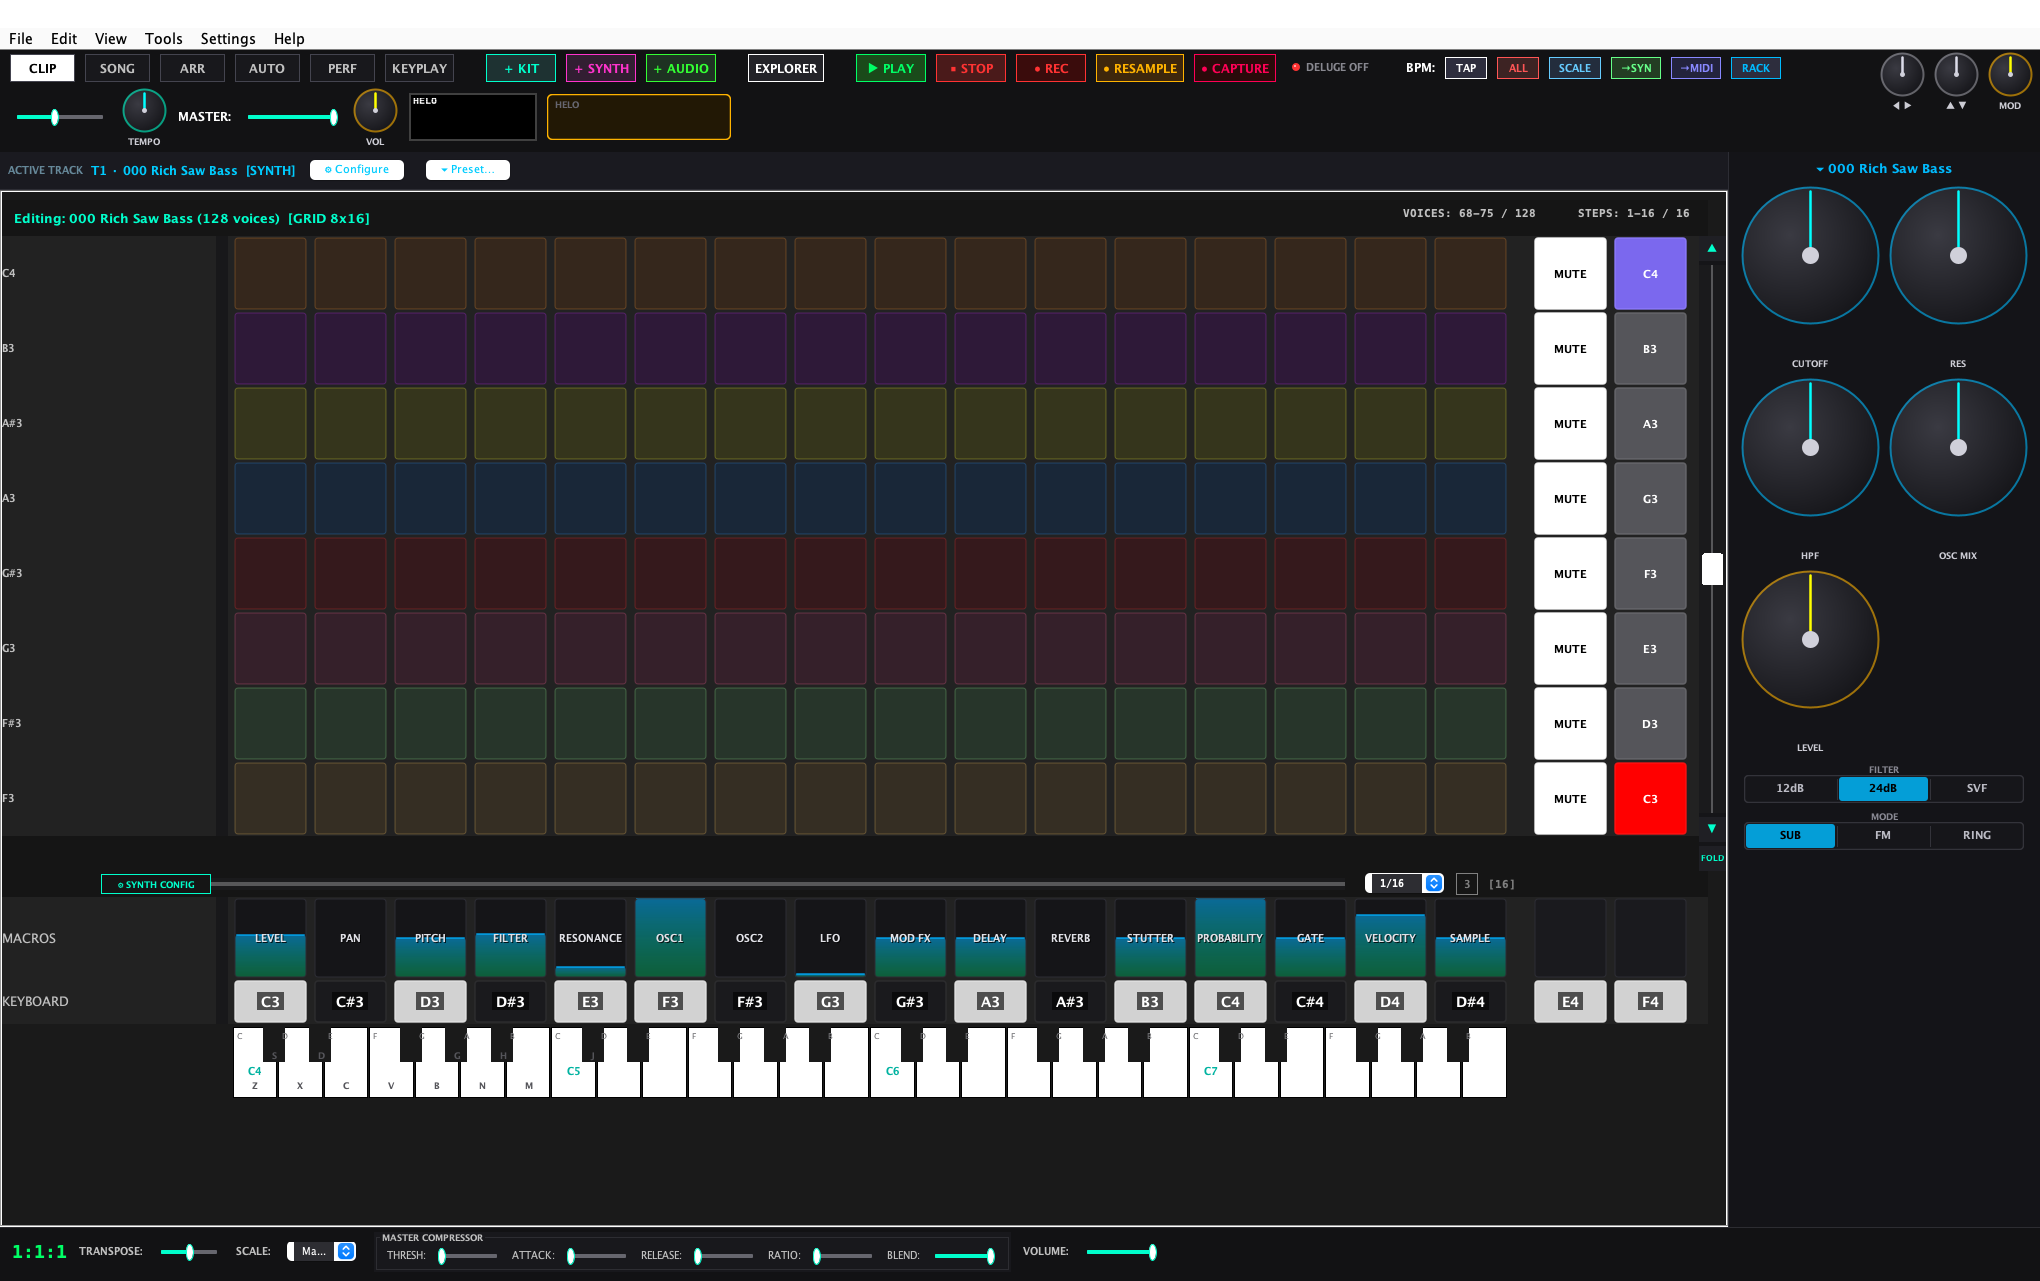
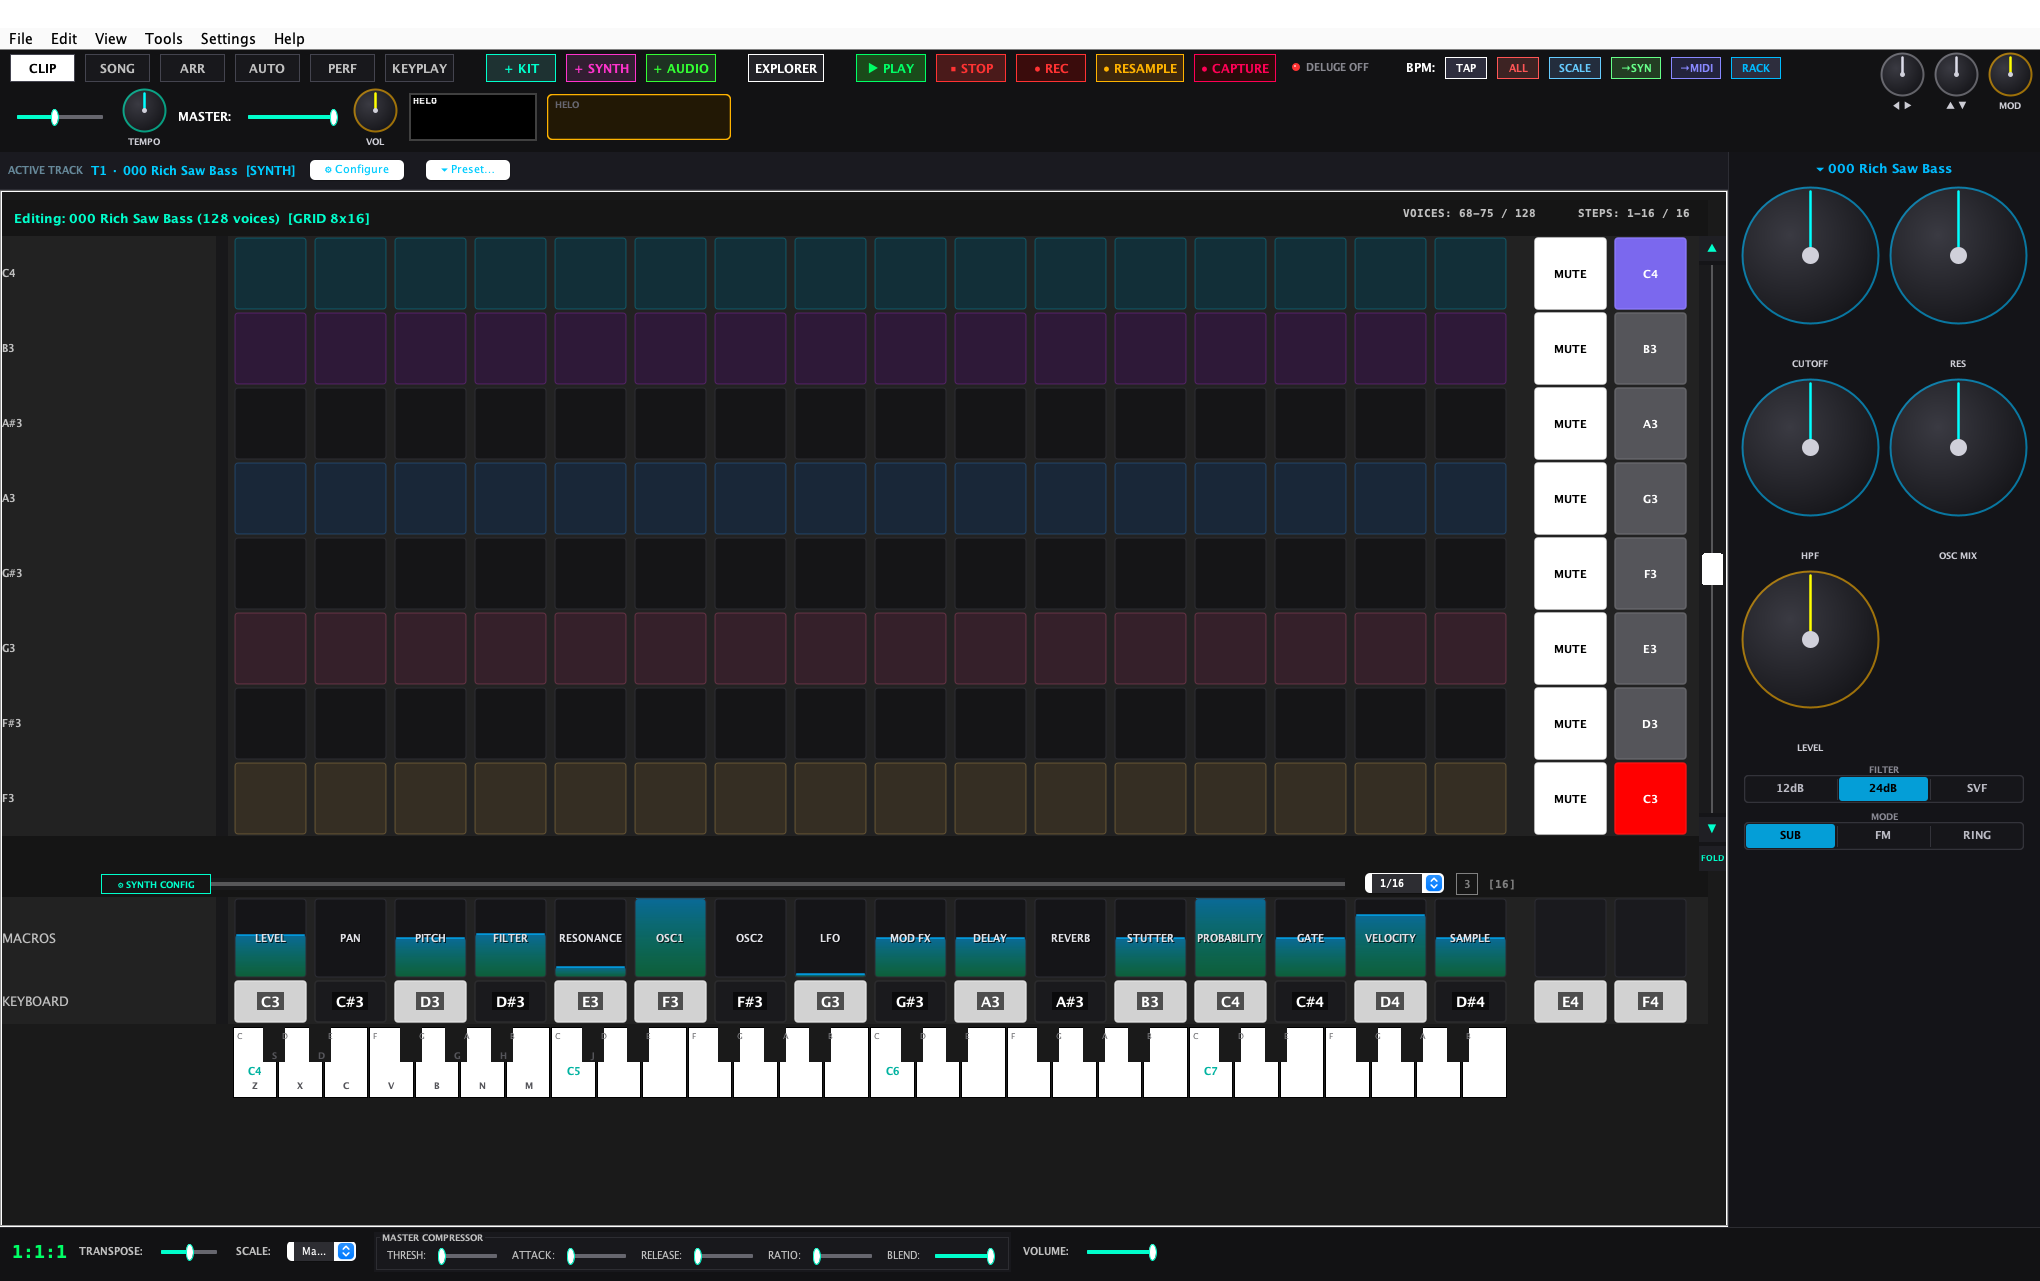
feat(ui): Implement visual color themes, scale degree highlighting, isomorphic keyboard coloring, and click-and-drag automation curve painting

diff --git a/deluge/src/main/java/org/deluge/ui/SwingGridPanel.java b/deluge/src/main/java/org/deluge/ui/SwingGridPanel.java
@@ -915,6 +915,61 @@ public class SwingGridPanel extends JPanel {
         0x27, 0x27, 0x2b); // deeper, beautiful dark charcoal for standard subdivisions!
   }
 
+  private Color getThemeColor(
+      org.deluge.project.PreferencesManager.GridColorTheme theme,
+      Color trackColor,
+      boolean active,
+      boolean inScale,
+      boolean isRoot,
+      int rowIdx) {
+    Color base = trackColor != null ? trackColor : Color.GREEN;
+    switch (theme) {
+      case NEON:
+        if (active) {
+          float[] hsb = Color.RGBtoHSB(base.getRed(), base.getGreen(), base.getBlue(), null);
+          return Color.getHSBColor(hsb[0], 1.0f, 1.0f);
+        } else if (isRoot) {
+          return new Color(0xff, 0x00, 0x7f); // hot neon pink root
+        } else if (inScale) {
+          float[] hsb = Color.RGBtoHSB(base.getRed(), base.getGreen(), base.getBlue(), null);
+          return Color.getHSBColor(hsb[0], 1.0f, 0.25f);
+        } else {
+          return new Color(0x18, 0x10, 0x22); // deep dark purple-gray
+        }
+      case MONOCHROME:
+        if (active) {
+          return Color.WHITE;
+        } else if (isRoot) {
+          return new Color(0xaa, 0xaa, 0xaa); // medium gray root
+        } else if (inScale) {
+          return new Color(0x3e, 0x3e, 0x3e); // dark gray in-scale
+        } else {
+          return new Color(0x15, 0x15, 0x15); // very dark gray out-of-scale
+        }
+      case STEEL:
+        if (active) {
+          return new Color(0x00, 0xb0, 0xff); // electric slate blue
+        } else if (isRoot) {
+          return new Color(0xff, 0xab, 0x40); // bright copper orange root
+        } else if (inScale) {
+          return new Color(0x00, 0x3b, 0x5c); // dark steel-blue in-scale
+        } else {
+          return new Color(0x1e, 0x22, 0x27); // dark metal out-of-scale
+        }
+      case HARDWARE:
+      default:
+        if (active) {
+          return base;
+        } else if (isRoot) {
+          return new Color(0x00, 0xd2, 0xff); // neon cyan root
+        } else if (inScale) {
+          return base; // DelugePadButton dims it automatically
+        } else {
+          return new Color(0x1d, 0x1d, 0x22); // titanium gray out-of-scale
+        }
+    }
+  }
+
   public int getFocusTrack() {
     return focusTrack;
   }
@@ -994,6 +1049,20 @@ public class SwingGridPanel extends JPanel {
           javax.swing.SwingUtilities.invokeLater(this::fireProjectChanged);
         });
     menu.add(downItem);
+
+    menu.addSeparator();
+
+    // ── Grid Color Theme Sub-menu ──
+    javax.swing.JMenu themeMenu = new javax.swing.JMenu("Grid Color Theme");
+    for (org.deluge.project.PreferencesManager.GridColorTheme theme : org.deluge.project.PreferencesManager.GridColorTheme.values()) {
+      javax.swing.JRadioButtonMenuItem item = new javax.swing.JRadioButtonMenuItem(theme.name(), theme == org.deluge.project.PreferencesManager.getGridColorTheme());
+      item.addActionListener(evt -> {
+        org.deluge.project.PreferencesManager.setGridColorTheme(theme);
+        refresh();
+      });
+      themeMenu.add(item);
+    }
+    menu.add(themeMenu);
 
     menu.addSeparator();
 
@@ -4071,6 +4140,26 @@ public class SwingGridPanel extends JPanel {
               boolean inLoop = activeCol < curTrackLen;
 
               if (clipBtn instanceof DelugePadButton pad) {
+                org.deluge.project.PreferencesManager.GridColorTheme theme =
+                    org.deluge.project.PreferencesManager.getGridColorTheme();
+                Color trackColor = trackColors[modelRow % trackColors.length];
+                boolean inScale = true;
+                boolean isRoot = false;
+
+                if (isSynthMode) {
+                  int pitchMidi = 127 - modelRow;
+                  int keyOffset = getKeyMidiOffset(projectModel.getKey());
+                  isRoot = (pitchMidi % 12 == keyOffset);
+                  inScale = org.deluge.model.Scales.isNoteInScale(
+                      pitchMidi,
+                      keyOffset,
+                      scaleTypeFromName(projectModel.getScale()));
+                }
+
+                Color cellBaseColor = getThemeColor(theme, trackColor, stepState, inScale, isRoot, modelRow);
+                pad.setBaseColor(cellBaseColor);
+                pad.setApplicable(inScale || !isSynthMode);
+
                 pad.setMuted(isMuted);
                 pad.setInLoop(inLoop);
                 pad.setActive(stepState);
@@ -4078,7 +4167,7 @@ public class SwingGridPanel extends JPanel {
                 pad.setTied(isStepTied(modelRow, activeCol));
                 if (stepState) {
                   if (isSynthMode) {
-                    int pitchMidi = (((128 - 1) - modelRow) + 0);
+                    int pitchMidi = 127 - modelRow;
                     pad.setNoteText(getNoteName(pitchMidi));
                   } else {
                     pad.setNoteText(String.format("v%d", (int) (vel * 100)));
@@ -4192,6 +4281,58 @@ public class SwingGridPanel extends JPanel {
                 } else {
                   clipBtn.setBackground(new Color(0x33, 0x33, 0x33));
                 }
+              }
+            }
+          }
+        }
+      }
+    } else if (viewMode == GridViewMode.KEYPLAY) {
+      boolean kitTrack = isEditedTrackKit();
+      Color trackColor = trackColors[editedModelTrack % trackColors.length];
+      org.deluge.project.PreferencesManager.GridColorTheme theme =
+          org.deluge.project.PreferencesManager.getGridColorTheme();
+
+      for (int v = 0; v < gridMode.rows; v++) {
+        for (int c = 0; c < columnCount; c++) {
+          JButton clipBtn = pads[v][c];
+          if (clipBtn == null) continue;
+
+          if (isMuteColumn(c) || isSoloColumn(c)) {
+            clipBtn.setVisible(false);
+            clipBtn.setEnabled(false);
+          } else if (c < 16) {
+            if (kitTrack) {
+              int drumIdx = keyplayDrumIndex(v, c);
+              boolean drumPlayable = drumIdx < editedKitDrumCount();
+              boolean isPlaying = bridge != null && bridge.getGlobalInt(BridgeContract.G_PREVIEW_TRACK) == (long) (baseTrackId + (v % 8));
+              
+              if (clipBtn instanceof DelugePadButton pad) {
+                pad.setActive(drumPlayable);
+                pad.setBaseColor(drumPlayable ? trackColor : new Color(0x1a, 0x1a, 0x1e));
+                pad.setApplicable(drumPlayable);
+                pad.setIntensity(isPlaying ? 1.0f : 0.4f);
+              } else {
+                clipBtn.setBackground(drumPlayable ? trackColor : new Color(0x22, 0x22, 0x24));
+              }
+            } else {
+              int note = keyplayNote(v, c);
+              int keyOffset = getKeyMidiOffset(projectModel.getKey());
+              boolean isRoot = (note % 12 == keyOffset);
+              boolean inScale = org.deluge.model.Scales.isNoteInScale(
+                  note,
+                  keyOffset,
+                  scaleTypeFromName(projectModel.getScale()));
+              
+              boolean isPlaying = false;
+              Color cellBaseColor = getThemeColor(theme, trackColor, isPlaying, inScale, isRoot, v);
+              
+              if (clipBtn instanceof DelugePadButton pad) {
+                pad.setBaseColor(cellBaseColor);
+                pad.setApplicable(inScale);
+                pad.setActive(isPlaying || isRoot || inScale);
+                pad.setIntensity(isPlaying ? 1.0f : (isRoot ? 0.6f : 0.3f));
+              } else {
+                clipBtn.setBackground(cellBaseColor);
               }
             }
           }
@@ -7063,6 +7204,8 @@ public class SwingGridPanel extends JPanel {
         cell.setMargin(new Insets(0, 0, 0, 0));
         cell.setDrawCenterCircle(false);
 
+        cell.putClientProperty("row", r);
+        cell.putClientProperty("col", c);
         pads[r][c] = cell;
 
         // Determine if this cell is "lit" (value band matches row)
@@ -7179,9 +7322,23 @@ public class SwingGridPanel extends JPanel {
                 int acIdx2 = tM.getActiveClipIndex();
                 if (acIdx2 < 0 || acIdx2 >= tM.getClips().size()) return;
                 org.deluge.model.ClipModel cM = tM.getClips().get(acIdx2);
-                float val = (rowIdx * 16 + 8) / 127.0f;
-                cM.setAutomation(finalParam, colIdx, val);
-                refresh();
+
+                Point pt = javax.swing.SwingUtilities.convertPoint(
+                    e.getComponent(), e.getPoint(), SwingGridPanel.this);
+                Component under = getComponentAt(pt);
+                if (under instanceof JPanel rowPanel) {
+                  Component deepest = rowPanel.getComponentAt(
+                      new Point(pt.x - rowPanel.getX(), pt.y - rowPanel.getY()));
+                  if (deepest instanceof javax.swing.JComponent jc) {
+                    Integer rProp = (Integer) jc.getClientProperty("row");
+                    Integer cProp = (Integer) jc.getClientProperty("col");
+                    if (rProp != null && cProp != null && cProp < stepCount && rProp < 8) {
+                      float val = (rProp * 16 + 8) / 127.0f;
+                      cM.setAutomation(finalParam, cProp, val);
+                      refresh();
+                    }
+                  }
+                }
               }
             });
 

diff --git a/deluge/src/main/java/org/deluge/project/PreferencesManager.java b/deluge/src/main/java/org/deluge/project/PreferencesManager.java
@@ -161,6 +161,36 @@ public class PreferencesManager {
     prefs.put(KEY_GRID_PANEL_TYPE, type.name());
   }
 
+  /** Sequence Grid UI Color Themes. */
+  public enum GridColorTheme {
+    HARDWARE,       // Native Deluge hardware colors mapping
+    NEON,           // High-contrast vibrant neon
+    MONOCHROME,     // Sleek grayscale
+    STEEL;          // Cyberpunk slate-blues
+
+    public static GridColorTheme fromString(String s) {
+      try {
+        return valueOf(s);
+      } catch (Exception e) {
+        return HARDWARE;
+      }
+    }
+  }
+
+  private static final String KEY_GRID_COLOR_THEME = "grid.colorTheme";
+
+  public static GridColorTheme getGridColorTheme() {
+    return GridColorTheme.fromString(prefs.get(KEY_GRID_COLOR_THEME, "HARDWARE"));
+  }
+
+  public static void setGridColorTheme(GridColorTheme theme) {
+    prefs.put(KEY_GRID_COLOR_THEME, theme.name());
+    try {
+      prefs.flush();
+    } catch (Exception ignored) {
+    }
+  }
+
   /** Interaction mode when holding Shift and clicking grid parameter shortcut cells. */
   public enum ShiftInteractionMode {
     POPUP_SLIDER,
